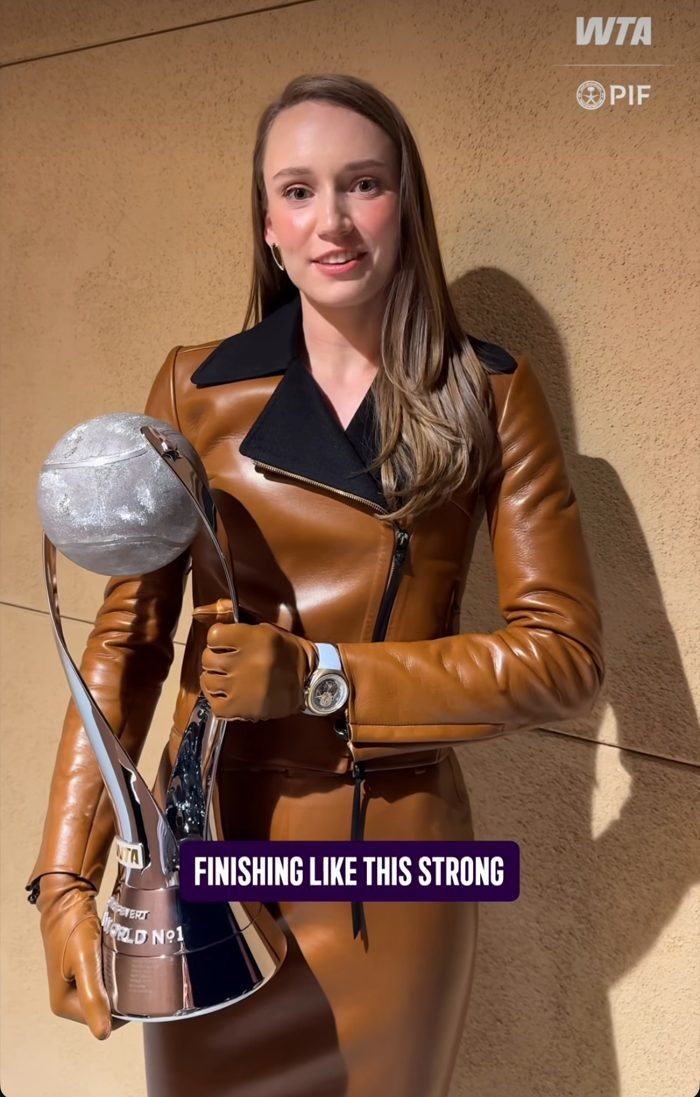
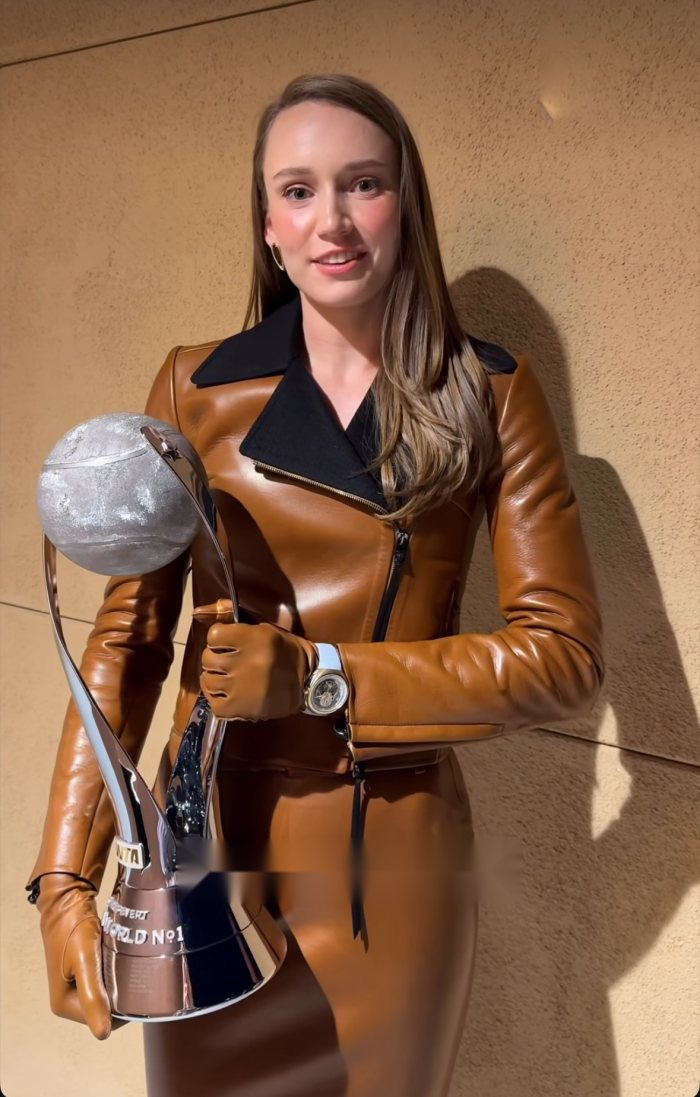
Rybakina photo: remove the caption and WTA/PIF overlay text
Claude-Session: https://claude.ai/code/session_01EUX33kfQShFEVAzHCBFvSV

Changed region(s): [[0.24, 0.7438, 0.75, 0.8368], [0.81, 0.0, 0.93, 0.124], [0.78, 0.093, 0.81, 0.124]]

diff --git a/sw.js b/sw.js
@@ -1,5 +1,5 @@
 // Network-first so live scores are never stale; cached copy only when offline.
-const CACHE = 'tennis-recap-v153';
+const CACHE = 'tennis-recap-v154';
 const PRECACHE = ['/', '/manifest.webmanifest', '/icons/icon-192.png'];
 
 self.addEventListener('install', e => {
